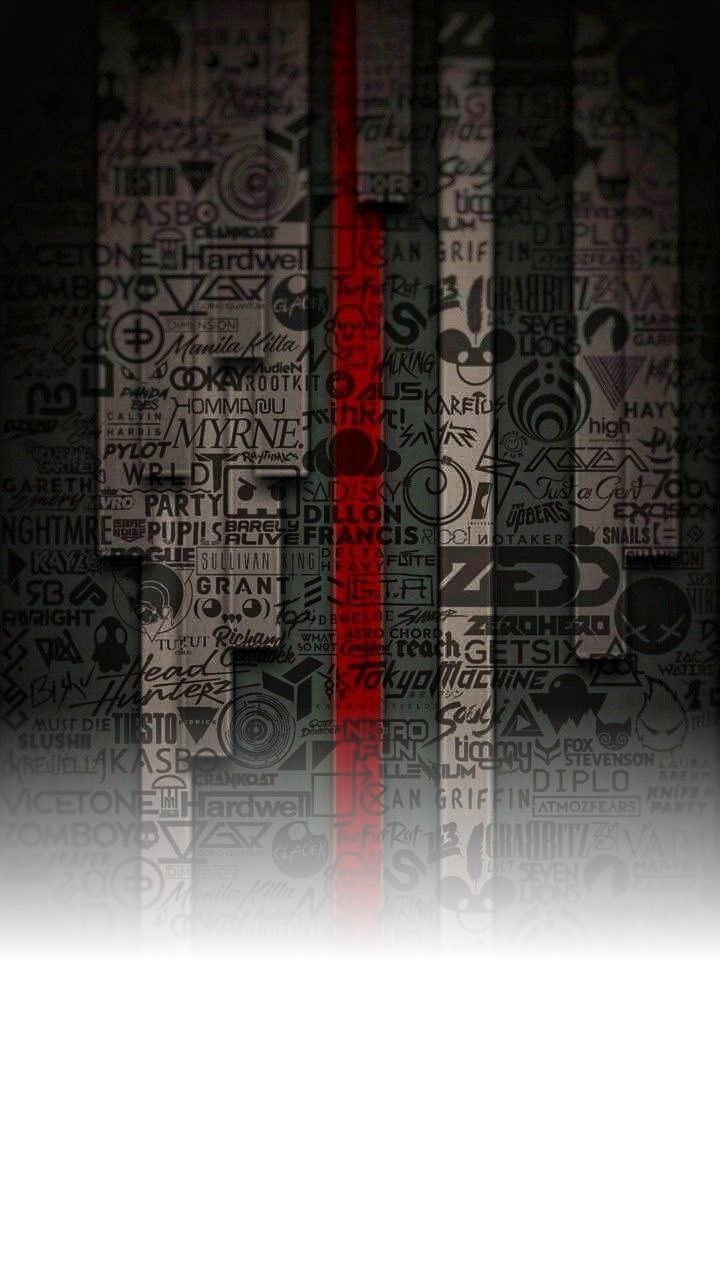
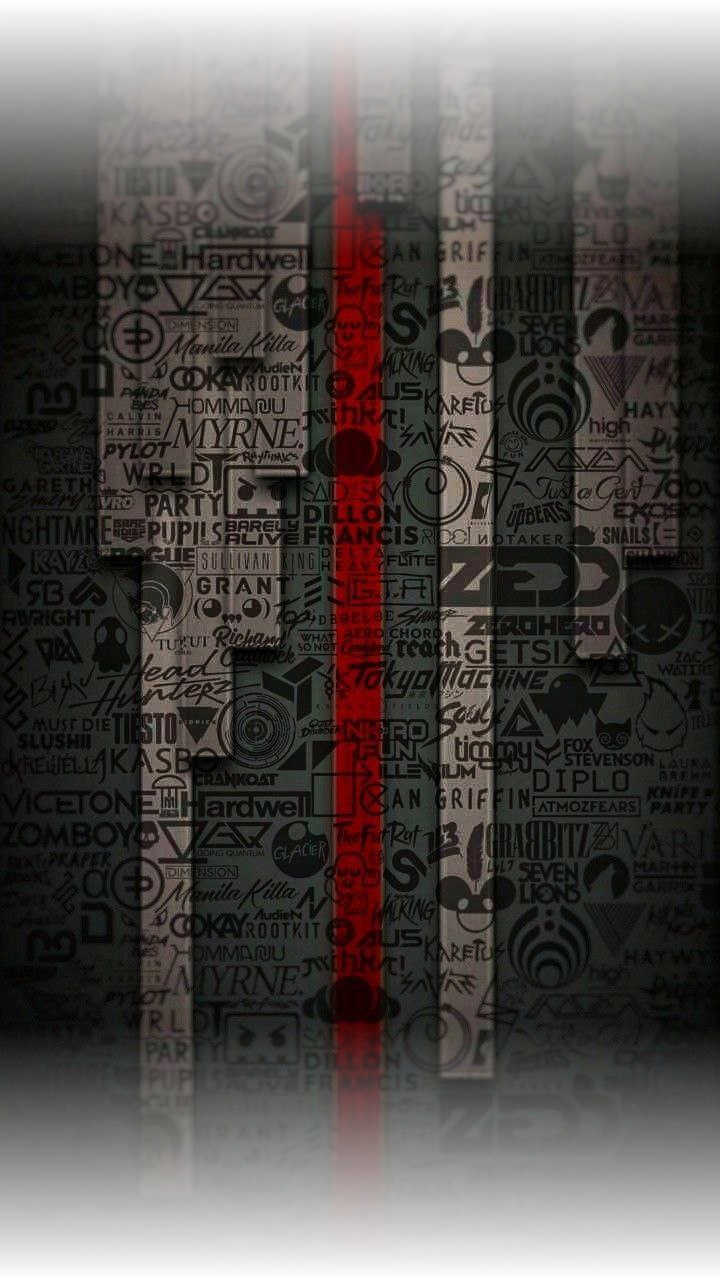
Committed 2023 0Th. 93911

diff --git a/test3.py b/test3.py
@@ -1,21 +1,30 @@
-from PIL import Image, ImageEnhance
+import numpy as np
+from PIL import Image
 
-# Load the image
-input_image_path = "input_image.jpg"
-output_image_path = "output_image.jpg"
-image =  Image.open(r"C:\Users\HEZRON WEKESA\Pictures\20220819_083721.jpg")
+# Load the image to be blended.
+im = Image.open(r"C:\Users\HEZRON WEKESA\Pictures\20220819_083721.jpg")
 
-# Define the number of steps for the fade effect
-num_steps = 10
+# Ensure the image has an alpha channel.
+im = im.convert("RGBA")
 
-# Create a list of images with gradually reduced brightness
-fade_images = []
-for step in range(num_steps + 1):
-    # Adjust brightness using ImageEnhance
-    brightness_factor = 1.0 - (step / num_steps)  # Decrease brightness
-    enhanced_image = ImageEnhance.Brightness(image).enhance(brightness_factor)
-    fade_images.append(enhanced_image)
+width, height = im.size
+pixels = im.load()
 
-# Save the faded images as a GIF or another format
-fade_images[0].save(output_image_path, save_all=True, append_images=fade_images[1:], duration=100, loop=0)
+# Define the top and bottom fade heights as a percentage of the image height.
+top_fade_height = int(height * 0.20)  # Adjust this value for the desired top fade height
+bottom_fade_height = int(height * 0.20)  # Adjust this value for the desired bottom fade height
 
+# Fade the top region to dark.
+for y in range(top_fade_height):
+    alpha = int((y / top_fade_height) * 255)
+    for x in range(width):
+        pixels[x, y] = pixels[x, y][:3] + (alpha,)
+
+# Fade the bottom region to dark.
+for y in range(height - bottom_fade_height, height):
+    alpha = int(((height - y) / bottom_fade_height) * 255)
+    for x in range(width):
+        pixels[x, y] = pixels[x, y][:3] + (alpha,)
+
+# Save the modified image.
+im.save('birdfade.png')
